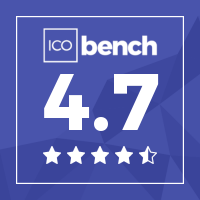
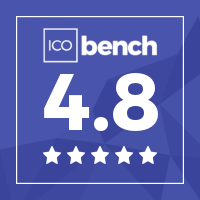
u

Changed region(s): [[0.54, 0.36, 0.81, 0.66], [0.72, 0.75, 0.78, 0.81]]

diff --git a/resources/views/ieo.blade.php b/resources/views/ieo.blade.php
@@ -318,7 +318,7 @@
 		$datas = [];
 		$datas[] = [ 'style'=>"", 'title'=>"BuyAnyLight ICORATING", 'link'=>"https://icoholder.com/en/buyanylight-31234", 'src'=>Util::assetUrl("images/ieo/partners/icoholder.png"), ];
 		$datas[] = [ 'style'=>"", 'title'=>"BuyAnyLight COINCODEX", 'link'=>"https://coincodex.com/ieo/buyanylight/", 'src'=>Util::assetUrl("images/ieo/partners/coincodex.png"), ];
-		$datas[] = [ 'style'=>"", 'title'=>"BuyAnyLight ICOHOLDER", 'link'=>"https://icobench.com/ico/buyanylight-bal", 'src'=>"https://icobench.com/rated/buyanylight-bal?shape=square&size=m", ];
+		$datas[] = [ 'style'=>"", 'title'=>"BuyAnyLight ICOHOLDER", 'link'=>"https://icobench.com/ico/buyanylight-bal", 'src'=>Util::assetUrl('images/ieo/partners/icobench.png'), ];
 		$datas[] = [ 'style'=>"", 'title'=>"BuyAnyLight ICOMARKS", 'link'=>"https://icomarks.com/ico/buyanylight", 'src'=>Util::assetUrl("images/ieo/partners/icomarks.svg"), ];
 		$datas[] = [ 'style'=>"", 'title'=>"BuyAnyLight ICOSBULL", 'link'=>"https://icosbull.com/eng/ico/buyanylightbal", 'src'=>"images/ieo/partners/icosbull.png", ];
 	?>

diff --git a/resources/views/mobile/ieo.blade.php b/resources/views/mobile/ieo.blade.php
@@ -262,7 +262,7 @@
 		$datas = [];
 		$datas[] = [ 'style'=>"", 'title'=>"BuyAnyLight ICORATING", 'link'=>"https://icoholder.com/en/buyanylight-31234", 'src'=>Util::assetUrl("images/ieo/partners/icoholder.png"), ];
 		$datas[] = [ 'style'=>"", 'title'=>"BuyAnyLight COINCODEX", 'link'=>"https://coincodex.com/ieo/buyanylight/", 'src'=>Util::assetUrl("images/ieo/partners/coincodex.png"), ];
-		$datas[] = [ 'style'=>"", 'title'=>"BuyAnyLight ICOHOLDER", 'link'=>"https://icobench.com/ico/buyanylight-bal", 'src'=>"https://icobench.com/rated/buyanylight-bal?shape=square&size=m", ];
+		$datas[] = [ 'style'=>"", 'title'=>"BuyAnyLight ICOHOLDER", 'link'=>"https://icobench.com/ico/buyanylight-bal", 'src'=>Util::assetUrl('images/ieo/partners/icobench.png'), ];
 		$datas[] = [ 'style'=>"", 'title'=>"BuyAnyLight ICOMARKS", 'link'=>"https://icomarks.com/ico/buyanylight", 'src'=>Util::assetUrl("images/ieo/partners/icomarks.svg"), ];
 		$datas[] = [ 'style'=>"", 'title'=>"BuyAnyLight ICOSBULL", 'link'=>"https://icosbull.com/eng/ico/buyanylightbal", 'src'=>"images/ieo/partners/icosbull.png", ];
 	?>

diff --git a/resources/views/welcome.blade.php b/resources/views/welcome.blade.php
@@ -45,7 +45,7 @@
 							<div class="col-12 pt-3">
 								<a href="https://icobench.com/ico/buyanylight-bal" 
 					target="_blank" rel="nofollow" title="BuyAnyLight (BAL) on ICObench">					
-						<img border="0" async src="https://icobench.com/rated/buyanylight-bal?shape=square&size=m" 						
+						<img border="0" async src="{{Util::assetUrl('images/ieo/partners/icobench.png')}}" 						
 						style="height: 60px; margin-bottom: -15px; margin-right: 5px;" 
 						alt="BuyAnyLight (BAL) ICO rating"/>
 					</a>

diff --git a/resources/views/mobile/index.blade.php b/resources/views/mobile/index.blade.php
@@ -11,7 +11,7 @@
 				
 					<a href="https://icobench.com/ico/buyanylight-bal" 
 					target="_blank" rel="nofollow" title="BuyAnyLight (BAL) on ICObench">					
-						<img border="0" src="https://icobench.com/rated/buyanylight-bal?shape=square&size=m" 						
+						<img border="0" src="{{Util::assetUrl('images/ieo/partners/icobench.png')}}" 						
 						style="height: 60px; margin-bottom: -15px; margin-right: 5px;" 
 						alt="BuyAnyLight (BAL) ICO rating"/>
 					</a>
